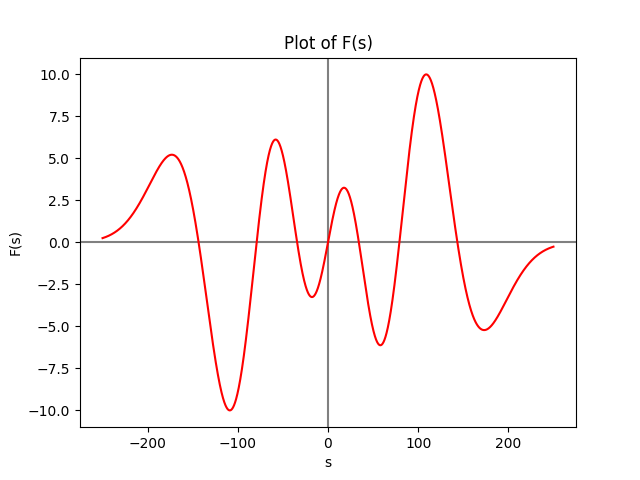
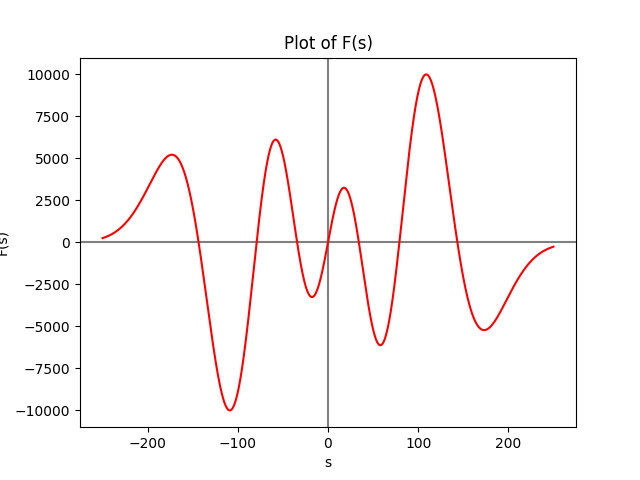
Final with colors sorted and part 2 of question 4 complete

diff --git a/Leapfrog_Timestepping_Code.py b/Leapfrog_Timestepping_Code.py
@@ -50,7 +50,10 @@ def leapfrog_timestep(S_nm1, S_n, V_nm1, V_n, h):
 
 
 
-def leapfrog_method(S_0, V_0, h, stop_time):
+def leapfrog_method(S_0, V_0, h, stop_time, file_name, colors):
+    file_name = str(file_name)
+    #adds an option to be able to name the graph
+
     #uses the leapfrog method to compute and plot a numerical solution for s and v
 
     #function parameters:
@@ -76,11 +79,21 @@ def leapfrog_method(S_0, V_0, h, stop_time):
         S[n+1], V[n+1] = leapfrog_timestep(S[n-1], S[n], V[n-1], V[n], h)
     #uses leapfrog method for every other timestep until stop_time is reached
 
-    plt.axhline(y=0, color="0.0")
-    plt.plot(t, S, label="Position")
-    plt.plot(t, V, label="Velocity")
-    plt.legend(fontsize=9)
-    plt.show()
+    if colors == "b":
+        plt.axhline(y=0, color="0.0")
+        plt.plot(t, S, label="Position", color="b")
+        plt.plot(t, V, label="Velocity", color="r")
+        plt.legend(fontsize=9)
+        plt.savefig(file_name)
+        plt.clf()
+
+    else:
+        plt.axhline(y=0, color="0.0")
+        plt.plot(t, S, label="Position")
+        plt.plot(t, V, label="Velocity")
+        plt.legend(fontsize=9)
+        plt.savefig(file_name)
+        plt.clf()
     #plot both position and velocity against time
 
 

diff --git a/Q4Leap.py b/Q4Leap.py
@@ -3,7 +3,8 @@ from Q4Ucrit import *
 from Leapfrog_Timestepping_Code import *
 
 c = 1
-h = 0.01
-stop_t = 20
-leapfrog_method(eq1, U_crit - c, h, stop_t)
+h = 0.0001
+stop_t = 50
+leapfrog_method(eq1, U_crit - c, h, stop_t, "./Lesser_U.png", "a")
+leapfrog_method(eq1, U_crit + c, h, stop_t, "./Greater_U.png", "b")
 

diff --git a/Q4Ucrit.py b/Q4Ucrit.py
@@ -3,8 +3,8 @@ from math import sqrt
 
 #Use from part 2
 #These are not right
-eq1 = -150
-eq2 = -90
+eq1 = -143.47473211748283
+eq2 = -79.16886756825691
 eq3 = -40
 eq4 = 0
 eq5 = 40
@@ -25,5 +25,3 @@ E_crit = V(eq2)
 #Rearranging for U
 
 U_crit = sqrt((2/m)*(E_crit-V(eq1)))
-
-print(U_crit)

diff --git a/Q4Func.py b/Q4Func.py
@@ -4,7 +4,7 @@ global m, G, g, V0, a, b, c, d
 m = 10**3
 G = 3
 g = 10
-V0 = 193.170645
+V0 = 193170.645
 a = 100
 b = 100
 c = 50 + ((10*G)/(6))
